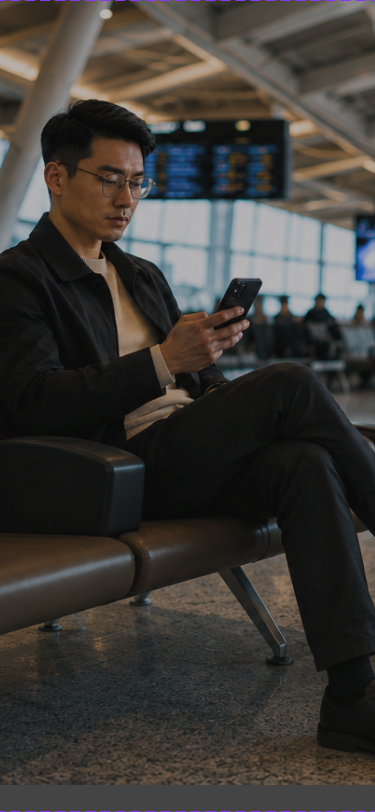
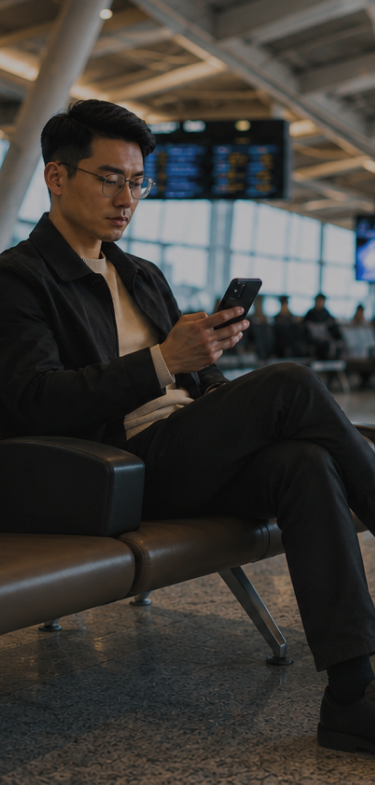
Fix Atlas preview photo crops and bottom fade, default to 3x

diff --git a/experiments/atlas-photo-crossfade/index.html b/experiments/atlas-photo-crossfade/index.html
@@ -25,11 +25,13 @@
     .details { margin: 28px 0 0; padding-top: 17px; border-top: 1px solid #363b3e; color: #828a90; font-size: 12px; line-height: 1.7; }
     a { color: #bcc8cb; text-underline-offset: 3px; }
     .stage { display: flex; min-width: 0; justify-content: center; align-items: center; }
-    .phone { position: relative; width: min(375px, 100%); aspect-ratio: 375 / 812; flex: none; isolation: isolate; overflow: hidden; border-radius: 20px; background: #1f1f1f; box-shadow: 0 24px 70px rgba(0, 0, 0, .44); }
+    .phone { position: relative; width: min(375px, 100%); aspect-ratio: 375 / 812; flex: none; isolation: isolate; overflow: hidden; border-radius: 20px; background: #000; box-shadow: 0 24px 70px rgba(0, 0, 0, .44); }
     .background, .overlay { position: absolute; display: block; width: 100%; height: auto; left: 0; pointer-events: none; user-select: none; -webkit-user-drag: none; }
-    .background { top: 0; height: 100%; object-fit: fill; z-index: 0; }
+    /* Exact Figma photo crops, top-aligned: 375×785 / 375×750 / 375×573.
+       The black screen base and gradient replace Figma's empty gray export area. */
+    .background { top: 0; height: auto; object-fit: contain; z-index: 0; }
     .background-base { opacity: 1; }
-    .background-animated { opacity: 0; animation-duration: 36s; animation-timing-function: ease-in-out; animation-iteration-count: infinite; animation-fill-mode: both; }
+    .background-animated { opacity: 0; animation-duration: 12s; animation-timing-function: ease-in-out; animation-iteration-count: infinite; animation-fill-mode: both; }
     .background-two { z-index: 1; animation-name: dissolve-two; }
     .background-three { z-index: 2; animation-name: dissolve-three; }
     .background-one { z-index: 3; animation-name: dissolve-one; }
@@ -49,7 +51,18 @@
       0%, 86.111111% { opacity: 0; }
       100% { opacity: 1; }
     }
-    .overlay { z-index: 4; }
+    /* Static shading stays above photos and below the UI, for every animation state. */
+    .photo-shade {
+      position: absolute; inset: 0; z-index: 4; pointer-events: none;
+      background: linear-gradient(to bottom,
+        rgba(0,0,0,.10) 0%,
+        rgba(0,0,0,.10) 43%,
+        rgba(0,0,0,.25) 49%,
+        rgba(0,0,0,.62) 58%,
+        rgba(0,0,0,.92) 65%,
+        #000 70%);
+    }
+    .overlay { z-index: 5; }
     .overlay-status { top: 0; }
     .overlay-navbar { top: 4.926108%; }
     .overlay-content { top: 11.576355%; }
@@ -81,13 +94,14 @@
         <p class="group-title">Скорость</p>
         <div class="control-row" role="group" aria-label="Скорость смены изображений">
           <button class="control" type="button" data-speed="0.5" aria-pressed="false">0,5×</button>
-          <button class="control" type="button" data-speed="1" aria-pressed="true">1×</button>
+          <button class="control" type="button" data-speed="1" aria-pressed="false">1×</button>
           <button class="control" type="button" data-speed="2" aria-pressed="false">2×</button>
+          <button class="control" type="button" data-speed="3" aria-pressed="true">3×</button>
           <button class="control" type="button" data-speed="4" aria-pressed="false">4×</button>
         </div>
         <p class="group-title">Воспроизведение</p>
         <button class="control" id="play-pause" type="button" aria-pressed="false">Пауза</button>
-        <p class="summary" id="timing">1×: каждый фон — 12 с, переход — 5 с.</p>
+        <p class="summary" id="timing">3×: каждый фон — 4 с, переход — 1,67 с.</p>
       </div>
       <p class="details">Отдельная тестовая страница, без изменения основной версии портфолио.<br>
         <a href="https://www.figma.com/design/6sBVAK6kmxac1SfD5w8gUw/?node-id=17848-5446" target="_blank" rel="noopener noreferrer">Исходный экран</a>
@@ -96,10 +110,11 @@
     </section>
     <section class="stage" aria-label="Предпросмотр экрана 375 на 812">
       <div class="phone" id="atlas-screen" role="img" aria-label="Экран Atlas: три фотографии плавно сменяются под статичным интерфейсом">
-        <img class="background background-base" src="./assets/bg-1.png" width="375" height="812" alt="" aria-hidden="true" decoding="async" fetchpriority="high">
-        <img class="background background-animated background-two" src="./assets/bg-2.png" width="375" height="812" alt="" aria-hidden="true" decoding="async">
-        <img class="background background-animated background-three" src="./assets/bg-3.png" width="375" height="812" alt="" aria-hidden="true" decoding="async">
-        <img class="background background-animated background-one" src="./assets/bg-1.png" width="375" height="812" alt="" aria-hidden="true" decoding="async">
+        <img class="background background-base" src="./assets/bg-1.png" width="375" height="785" alt="" aria-hidden="true" decoding="async" fetchpriority="high">
+        <img class="background background-animated background-two" src="./assets/bg-2.png" width="375" height="750" alt="" aria-hidden="true" decoding="async">
+        <img class="background background-animated background-three" src="./assets/bg-3.png" width="375" height="573" alt="" aria-hidden="true" decoding="async">
+        <img class="background background-animated background-one" src="./assets/bg-1.png" width="375" height="785" alt="" aria-hidden="true" decoding="async">
+        <div class="photo-shade" aria-hidden="true"></div>
         <img class="overlay overlay-status" src="./assets/status.png" width="375" height="40" alt="" aria-hidden="true" decoding="async">
         <img class="overlay overlay-navbar" src="./assets/navbar.png" width="375" height="54" alt="" aria-hidden="true" decoding="async">
         <img class="overlay overlay-content" src="./assets/foreground.png" width="375" height="718" alt="" aria-hidden="true" decoding="async">
